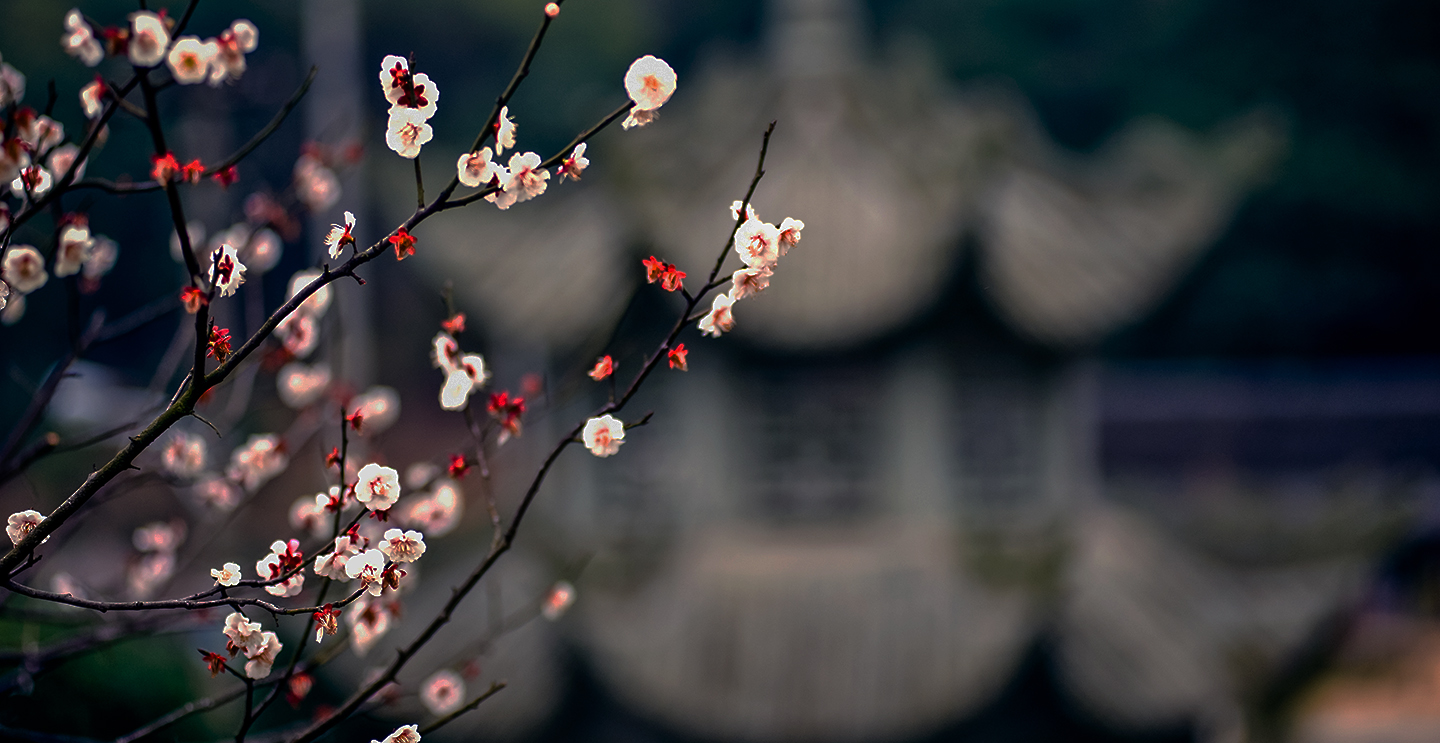
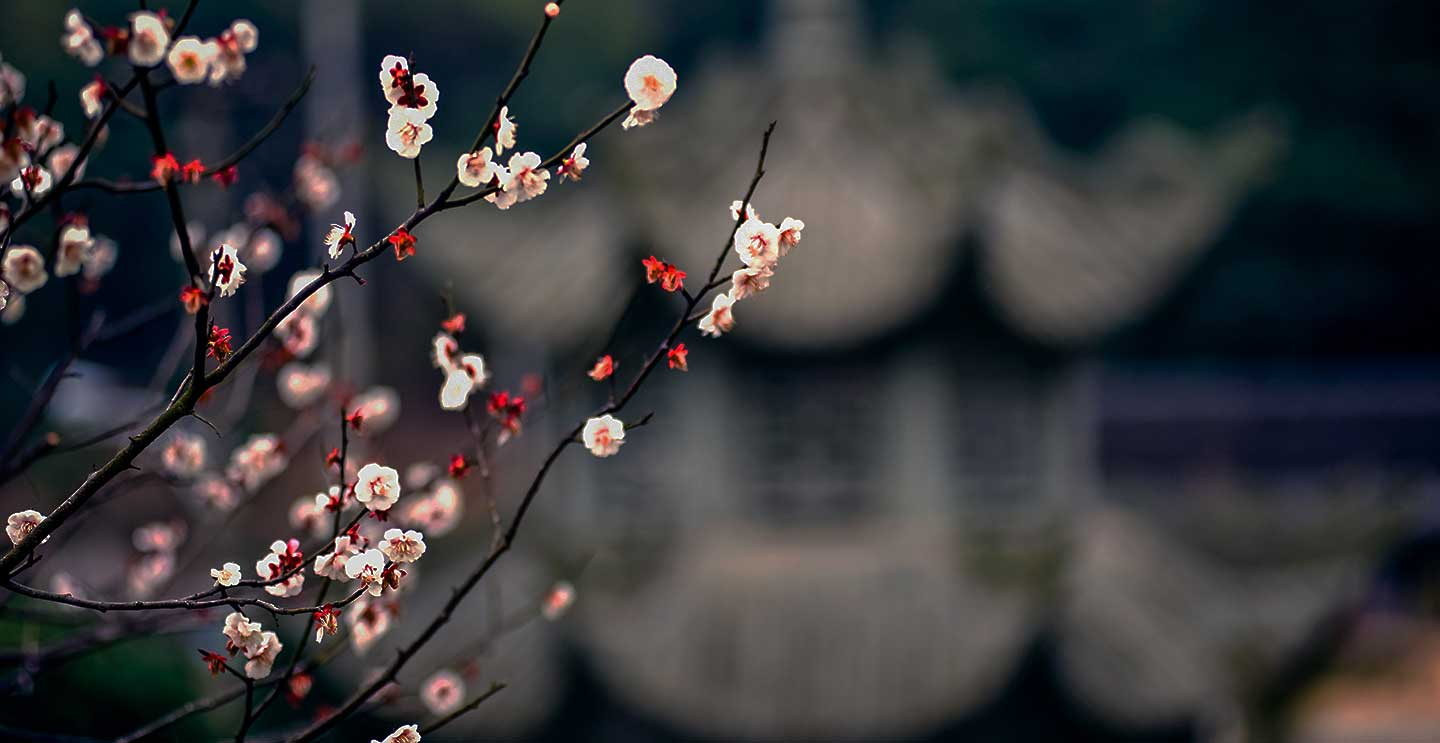
优化访问速度
替换资源文件为更小的版本

diff --git a/js/modify.js b/js/modify.js
@@ -59,7 +59,7 @@ $(document).ready(function(){
 				}
 			},
 			error: function (XMLHttpRequest, textStatus, errorThrown){    
-                alert("XMLHttpRequest " + XMLHttpRequest[0]);
+                //alert("XMLHttpRequest " + XMLHttpRequest[0]);
 			}
 		});
 		e.preventDefault(); // avoid to execute the actual submit of the form.
